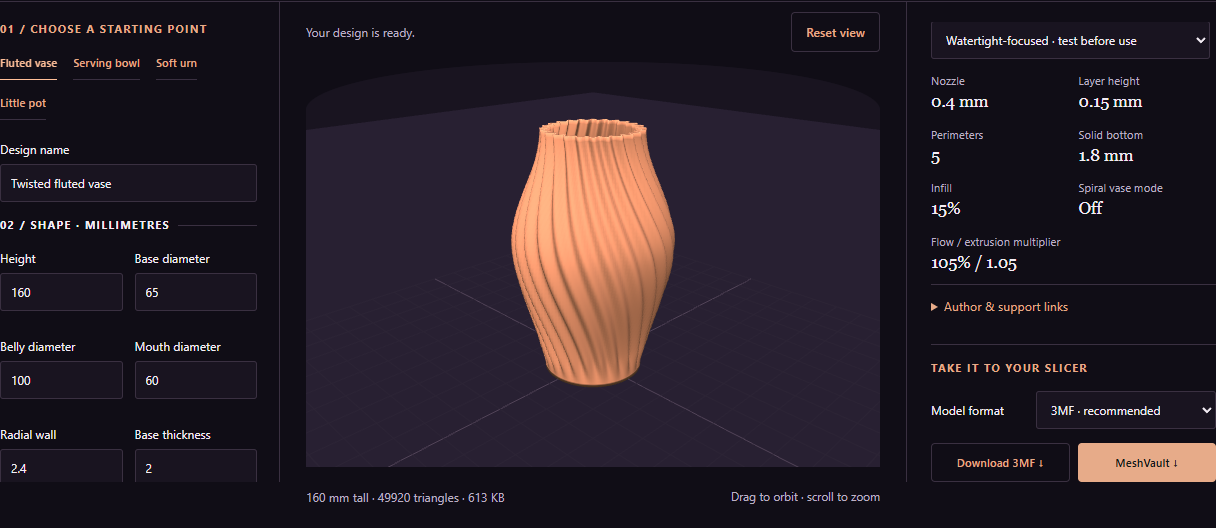
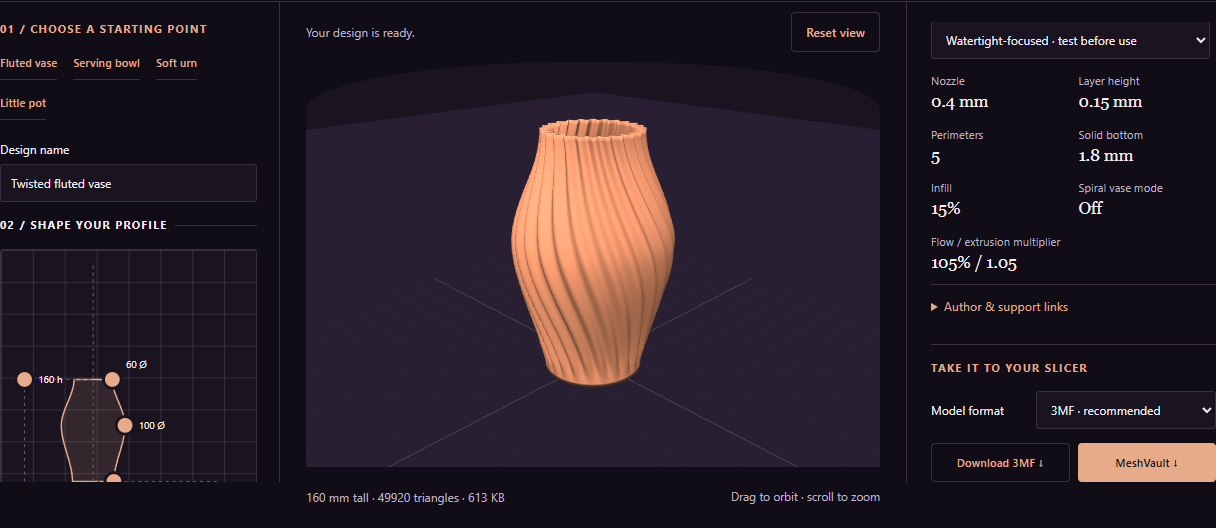
Add a draggable vessel profile editor with precise dimension controls

diff --git a/meshvault/generators/vessels/index.html b/meshvault/generators/vessels/index.html
@@ -7,10 +7,10 @@
   <link rel="stylesheet" href="../shared/studio.css">
   <link rel="canonical" href="https://www.meshvault.app/generators/vessels/">
   <link rel="icon" href="../../images/meshvault_512x512.png">
-  <link rel="stylesheet" href="theme.css?v=20261009-studio">
+  <link rel="stylesheet" href="theme.css?v=20261009-profile">
   <script src="../gridfinity/vendor/deps/three.min.js" defer></script>
   <script src="../gridfinity/vendor/deps/OrbitControls.js" defer></script>
-  <script type="module" src="studio.js?v=20261009-studio"></script>
+  <script type="module" src="studio.js?v=20261009-profile"></script>
 </head>
 <body class="vessel-studio">
   <a class="skip-link" href="#settings">Skip to shape controls</a>
@@ -24,11 +24,25 @@
         <p class="step">01 / Choose a starting point</p>
         <div class="presets" aria-label="Shape presets"><button type="button" data-preset="vase">Fluted vase</button><button type="button" data-preset="bowl">Serving bowl</button><button type="button" data-preset="urn">Soft urn</button><button type="button" data-preset="cup">Little pot</button></div>
         <label>Design name<input name="title" type="text" maxlength="80" value="Twisted fluted vase" required></label>
-        <fieldset><legend>02 / Shape · millimetres</legend><div class="fields">
+        <fieldset><legend>02 / Shape your profile</legend>
+          <svg id="profile-editor" viewBox="0 0 260 270" aria-label="Vessel profile editor">
+            <defs><pattern id="profile-grid" width="32.5" height="32.5" patternUnits="userSpaceOnUse"><path d="M 32.5 0 L 0 0 0 32.5" fill="none" stroke="currentColor" stroke-width="0.5"/></pattern></defs>
+            <rect width="260" height="270" fill="url(#profile-grid)" class="profile-grid"/>
+            <path id="profile-shape"/><path d="M94 16V236H220" class="profile-axis"/>
+            <path id="profile-height-line" class="profile-guide"/>
+            <g class="profile-handle" data-size="height" role="slider" tabindex="0" aria-label="Height" aria-orientation="vertical"><circle r="9"/><text x="14" y="4"></text></g>
+            <g class="profile-handle" data-size="mouth" role="slider" tabindex="0" aria-label="Mouth diameter" aria-orientation="horizontal"><circle r="9"/><text x="14" y="-12"></text></g>
+            <g class="profile-handle" data-size="belly" role="slider" tabindex="0" aria-label="Belly diameter" aria-orientation="horizontal"><circle r="9"/><text x="14" y="4"></text></g>
+            <g class="profile-handle" data-size="base" role="slider" tabindex="0" aria-label="Base diameter" aria-orientation="horizontal"><circle r="9"/><text x="14" y="14"></text></g>
+            <text x="10" y="262" class="profile-caption">50 mm grid · surface texture shown in 3D</text>
+          </svg>
+          <p class="small profile-help">Drag the dots to shape your vessel. Arrow keys adjust by 1 mm; Shift adjusts by 10 mm.</p>
+          <details id="exact-dimensions"><summary>Exact dimensions</summary><div class="fields">
           <label>Height<input name="height" type="number" min="25" max="300" step="1" value="160" required></label>
           <label>Base diameter<input name="base" type="number" min="25" max="240" step="1" value="65" required></label>
           <label>Belly diameter<input name="belly" type="number" min="25" max="260" step="1" value="100" required></label>
           <label>Mouth diameter<input name="mouth" type="number" min="25" max="260" step="1" value="60" required></label>
+        </div></details><div class="fields wall-settings">
           <label>Radial wall<input name="wall" type="number" min="0.8" max="5" step="0.1" value="1.6" required></label>
           <label>Base thickness<input name="floor" type="number" min="1" max="6" step="0.2" value="2" required></label>
         </div></fieldset>

diff --git a/meshvault/generators/vessels/profile.js b/meshvault/generators/vessels/profile.js
@@ -1,0 +1,45 @@
+// The same smooth radius function drives the silhouette and exported mesh.
+export function initProfileEditor(form, radius, update) {
+  const svg=document.querySelector('#profile-editor'), handles=[...svg.querySelectorAll('[data-size]')];
+  const scale=.65, centre=94, floor=236;
+  let drag=null;
+  function setSize(name,value) {
+    const input=form.elements[name];
+    input.value=Math.max(Number(input.min),Math.min(Number(input.max),Math.round(value)));
+    update();
+  }
+  svg.addEventListener('pointerdown',event=>{
+    const handle=event.target.closest('[data-size]');
+    if(!handle||event.button!==0)return;
+    event.preventDefault();handle.focus();drag=handle.dataset.size;svg.setPointerCapture(event.pointerId);
+  });
+  svg.addEventListener('pointermove',event=>{
+    if(!drag)return;
+    const point=new DOMPoint(event.clientX,event.clientY).matrixTransform(svg.getScreenCTM().inverse());
+    setSize(drag,drag==='height'?(floor-point.y)/scale:(point.x-centre)*2/scale);
+  });
+  svg.addEventListener('pointerup',()=>{drag=null;});
+  svg.addEventListener('lostpointercapture',()=>{drag=null;});
+  svg.addEventListener('pointercancel',()=>{drag=null;});
+  for(const handle of handles)handle.addEventListener('keydown',event=>{
+    const input=form.elements[handle.dataset.size];
+    if(!['ArrowLeft','ArrowRight','ArrowUp','ArrowDown','Home','End'].includes(event.key))return;
+    event.preventDefault();
+    const value=event.key==='Home'?Number(input.min):event.key==='End'?Number(input.max):Number(input.value)+(['ArrowRight','ArrowUp'].includes(event.key)?1:-1)*(event.shiftKey?10:1);
+    setSize(handle.dataset.size,value);
+  });
+  return function render() {
+    const s=Object.fromEntries(['height','base','belly','mouth'].map(name=>[name,Number(form.elements[name].value)]));
+    if(!['height','base','belly','mouth'].every(name=>form.elements[name].validity.valid))return;
+    const right=Array.from({length:65},(_,i)=>{const t=i/64;return [centre+radius(s,t)*scale,floor-s.height*t*scale];});
+    const left=[...right].reverse().map(([x,y])=>[2*centre-x,y]);
+    svg.querySelector('#profile-shape').setAttribute('d',`M${[...right,...left].map(p=>p.join(',')).join('L')}Z`);
+    svg.querySelector('#profile-height-line').setAttribute('d',`M24 ${floor}V${floor-s.height*scale}H${centre}`);
+    for(const handle of handles) {
+      const name=handle.dataset.size,input=form.elements[name],t=name==='base'?0:name==='belly'?.55:1;
+      handle.setAttribute('transform',`translate(${name==='height'?24:centre+s[name]/2*scale},${floor-s.height*t*scale})`);
+      for(const [key,value] of Object.entries({min:input.min,max:input.max,now:input.value,text:`${input.value} millimetres`}))handle.setAttribute(`aria-value${key}`,value);
+      handle.querySelector('text').textContent=`${input.value}${name==='height'?' h':' Ø'}`;
+    }
+  };
+}

diff --git a/meshvault/generators/vessels/theme.css b/meshvault/generators/vessels/theme.css
@@ -64,3 +64,16 @@ button { border-radius:4px; padding:10px 14px; }
   .vessel-studio h1 { font-size:3rem; } #viewer { height:390px; border-radius:30% 30% 0 0 / 8% 8% 0 0; }
   #settings { padding:20px 0 0; border-right:0; max-height:none; }
 }
+
+#profile-editor { display:block; width:100%; background:#191420; border:1px solid var(--line); border-radius:4px; touch-action:none; user-select:none; }
+.profile-grid { color:#594760; opacity:.5; }
+#profile-shape { fill:#e7ab8920; stroke:var(--accent); stroke-width:1.5; }
+.profile-axis, .profile-guide { fill:none; stroke:#6c5b75; stroke-width:1; stroke-dasharray:3 4; pointer-events:none; }
+.profile-handle { cursor:ew-resize; outline:none; }
+.profile-handle[data-size=height] { cursor:ns-resize; }
+.profile-handle circle { fill:var(--accent); stroke:#191420; stroke-width:3; }
+.profile-handle:hover circle, .profile-handle:focus-visible circle { stroke:#f4edf5; stroke-width:3; }
+.profile-handle text { font:10px system-ui,sans-serif; fill:#f4edf5; pointer-events:none; }
+.profile-caption { font:8px system-ui,sans-serif; fill:var(--muted); }
+.profile-help { margin:10px 0 0; }
+.wall-settings { margin-top:12px; }

diff --git a/meshvault/generators/vessels/geometry.js b/meshvault/generators/vessels/geometry.js
@@ -1,13 +1,16 @@
+const smooth = t => t * t * (3 - 2 * t);
+export function profileRadius(s, t) {
+  return t < .55 ? s.base / 2 + (s.belly - s.base) / 2 * smooth(t / .55)
+    : s.belly / 2 + (s.mouth - s.belly) / 2 * smooth((t - .55) / .45);
+}
 // A closed, hollow mesh: underside → outer wall → rim → inner wall → floor.
 export function vesselMesh(s) {
   const segments = s.quality === 'fine' ? 384 : 192;
   const levels = s.quality === 'fine' ? 128 : 64;
   const positions = [], indices = [], rings = [];
-  const smooth = t => t * t * (3 - 2 * t);
   function radius(y, angle) {
     const t = y / s.height;
-    const r = t < .55 ? s.base / 2 + (s.belly - s.base) / 2 * smooth(t / .55)
-      : s.belly / 2 + (s.mouth - s.belly) / 2 * smooth((t - .55) / .45);
+    const r = profileRadius(s, t);
     return r + (s.flutes ? s.amplitude * Math.cos(s.flutes * (angle - t * s.twist * Math.PI / 180)) * smooth(Math.min(1, t * 8)) : 0);
   }
   function ring(y, inner = false) {

diff --git a/meshvault/generators/vessels/studio.js b/meshvault/generators/vessels/studio.js
@@ -1,4 +1,5 @@
-import { vesselMesh, binarySTL } from './geometry.js';
+import { vesselMesh, binarySTL, profileRadius } from './geometry.js?v=20261009-profile';
+import { initProfileEditor } from './profile.js?v=20261009-profile';
 import { createPackage, create3MF, saveFile, canvasThumbnail } from '../shared/mvpack.js';
 const form = document.querySelector('#settings'), status = document.querySelector('#status');
 const stl = document.querySelector('#stl'), pack = document.querySelector('#mvpack');
@@ -74,7 +75,9 @@ try {
   controls.addEventListener('change', () => renderer.render(scene, camera));
 } catch { status.textContent = '3D preview unavailable. You can still export your model.'; }
 
+const renderProfile = initProfileEditor(form, profileRadius, () => update());
 function update() {
+  renderProfile();
   showPrintSettings();
   cancelAnimationFrame(frame);
   current = null; stl.disabled = pack.disabled = true;

diff --git a/meshvault/generators/vessels/README.md b/meshvault/generators/vessels/README.md
@@ -49,3 +49,10 @@ controls side by side. MeshVault plum branding and navigation are shared with th
 ecosystem; serif headings, clay accents and the curved preview retain the studio
 identity. Printing guidance scrolls independently of the download area, with
 author details in an expandable section directly above the downloads.
+
+Shape dimensions can be edited on the SVG profile: drag base, belly and mouth
+diameter handles horizontally, and height vertically. The silhouette shares the
+mesh radius function (belly at 55% height); flutes are shown in the 3D preview.
+Arrow keys change a focused handle by 1 mm, Shift by 10 mm, Home/End select its
+limits. Exact dimensions remain available in an expandable section; wall and
+base thickness stay separate. All dimensions retain their existing bounds.
